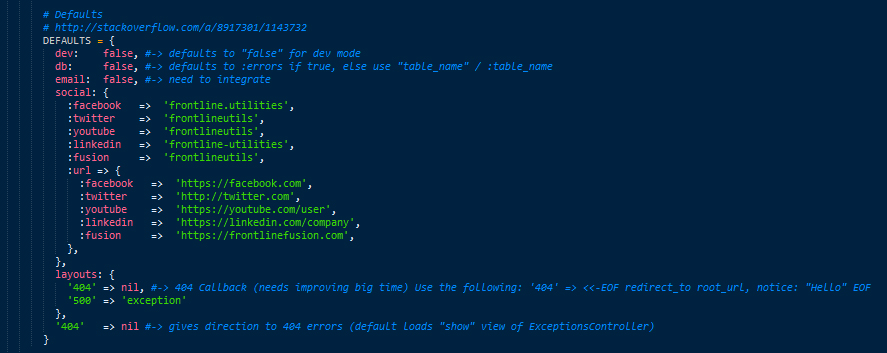
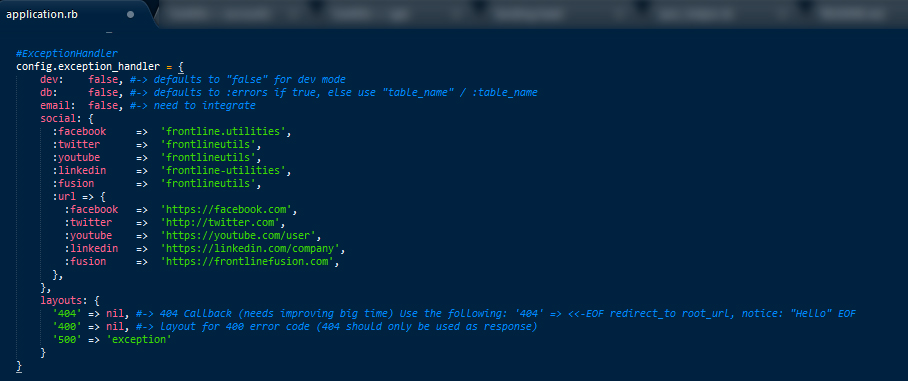
Defaults
Former-commit-id: dddc5517ca60836fe7e5d3fa0f43d1f5eaa0b606
Former-commit-id: 784f6bb81a26384f94fd13e195c828db81b0781d

Changed region(s): [[0.0, 0.0, 1.0, 0.9348], [0.0, 0.9348, 0.0304, 0.9972]]

diff --git a/README.md b/README.md
@@ -184,9 +184,9 @@ As can be seen in the [`config class`](/lib/exception_handler/config.rb), the fo
       },
       layouts: {
         '404' => nil, #-> 404 Callback (needs improving big time) Use the following: '404' => <<-EOF redirect_to root_url, notice: "Hello" EOF
+        '400' => nil, #-> layout for 400 error code (404 should only be used as response)
         '500' => 'exception'
-      }
-      '404' => nil #-> gives direction to 404 errors (default loads "show" view of ExceptionsController)
+      },
     }
 
 The above are ***defaults***.
